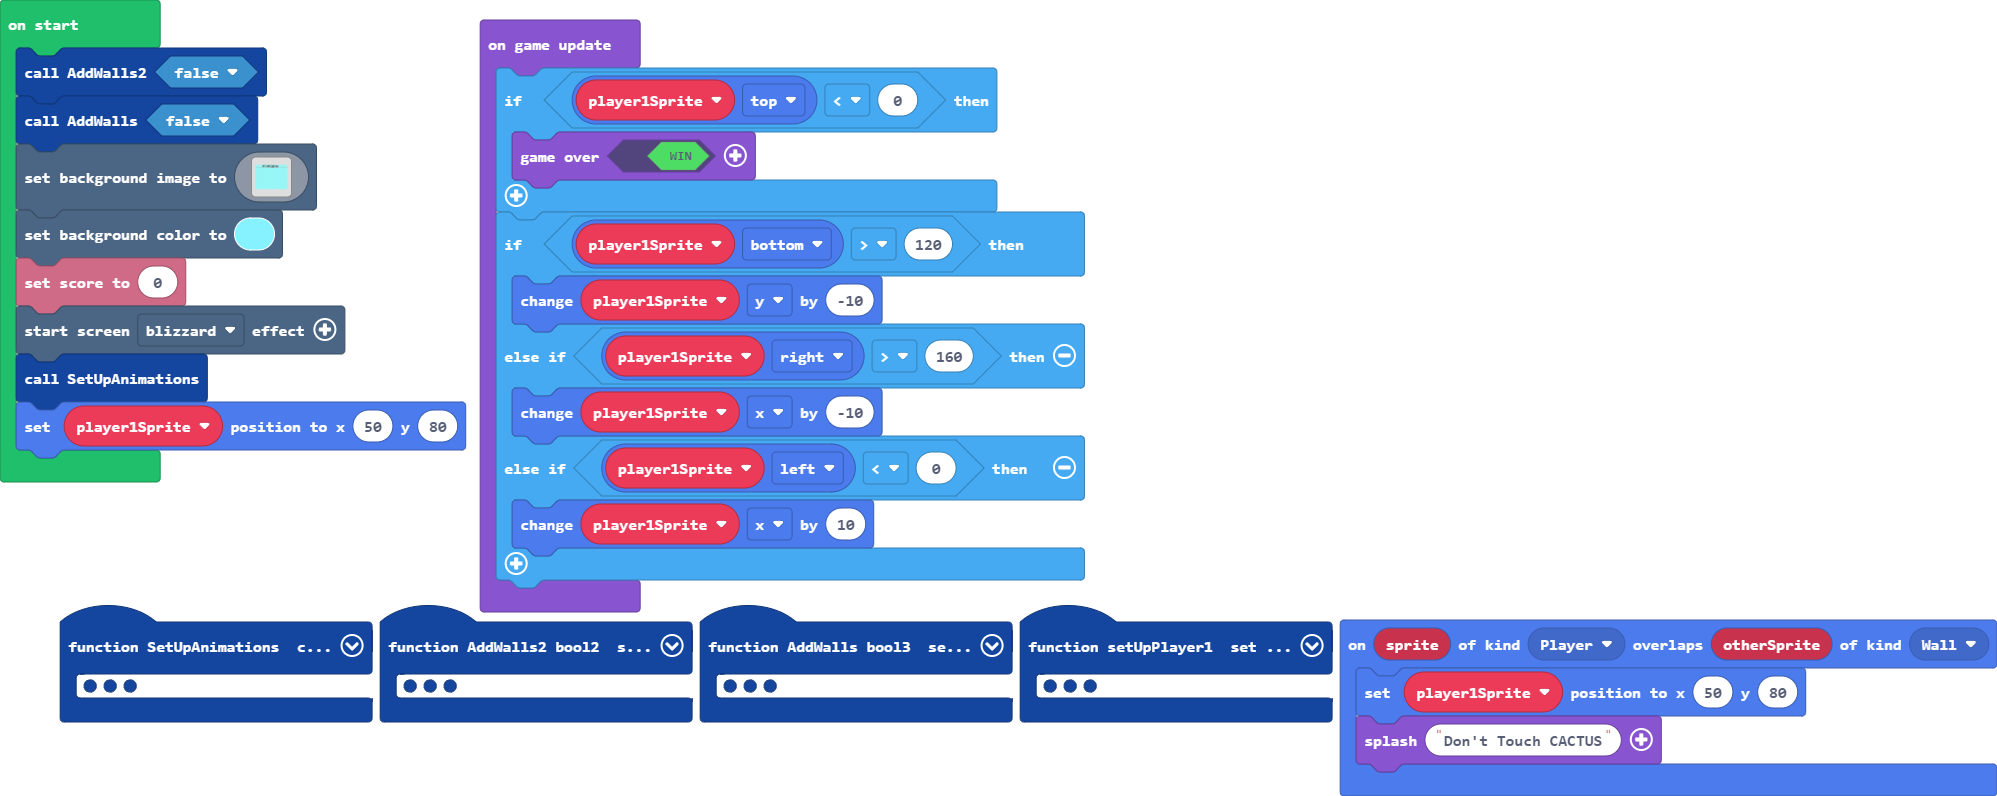
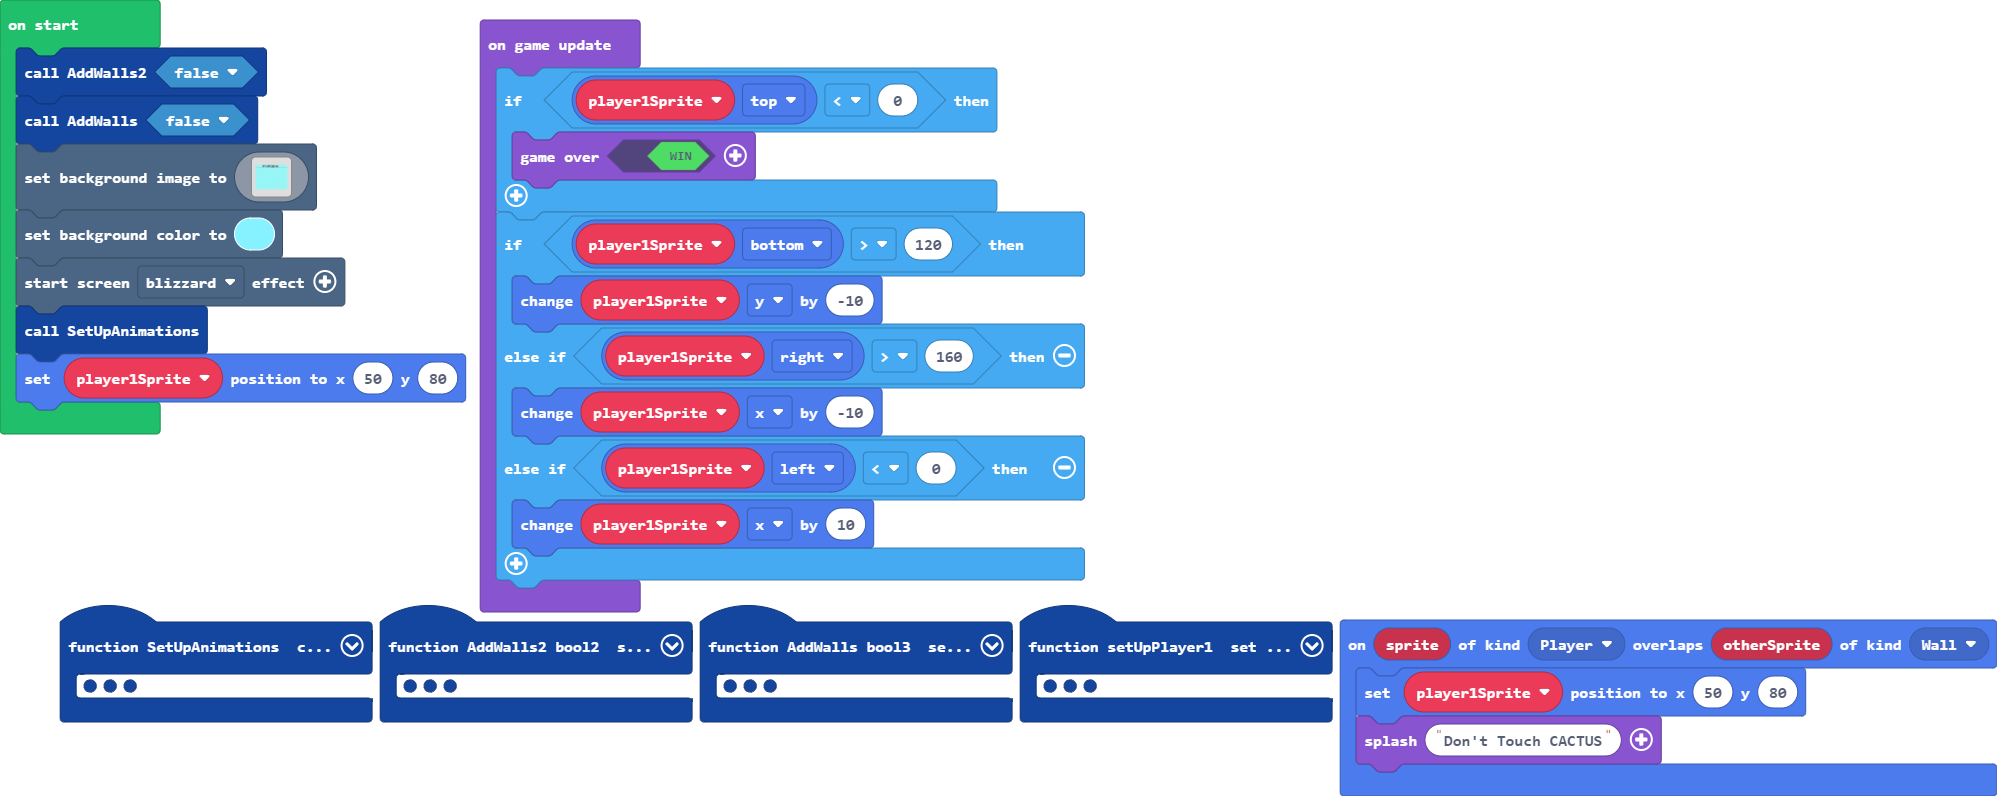
remove score

Changed region(s): [[0.0, 0.3015, 0.2484, 0.6332]]

diff --git a/main.ts b/main.ts
@@ -405,7 +405,6 @@ scene.setBackgroundImage(img`
     9999999999999999999999999999999999999999999999999999999999999999999999999999999999999999999999999999999999999999999999999999999999999999999999999999999999999999
     `)
 scene.setBackgroundColor(9)
-info.setScore(0)
 effects.blizzard.startScreenEffect()
 SetUpAnimations()
 player1Sprite.setPosition(50, 80)
